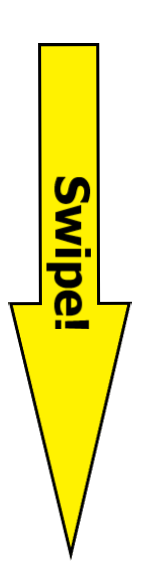
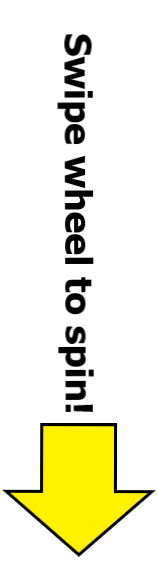
New instruction text, instructions now on popup only. New layout on menu on right.

diff --git a/the_price_is_right.py b/the_price_is_right.py
@@ -18,14 +18,18 @@ class Game(tk.Frame):
                      '90', '65', '40', '55', '75', '30', '85', '70', '25',
                      '80', '10')
     INSTRUCTIONS = ('Instructions:\n\n'
-                    'There are three players. Wins who gets closer to 100'
-                    ' without going over. Each player starts by spinning the'
-                    ' wheel once. After that, she can choose to spin it a'
-                    ' second time or not. Anyone who goes over 100 looses'
-                    ' immediately. In the end the player closer to 100 that'
-                    ' did not go over, wins!\n\n'
-                    'Statistics are presented to display who has the better'
-                    ' chance of whinning.')
+                    'The game consists of three players trying to get to as'
+                    ' close to 100 points as possible by spinning the wheel.'
+                    ' After the first spin, each player choses if she wants to'
+                    ' spin the wheel a second time. Anyone that goes above'
+                    ' 100 points looses.\n'
+                    'The wheel must make at least a full rotation for the' 
+                    ' play to be valid.\n'
+                    'Wheel speed is a function of sweeping speed and'
+                    ' distance.\n'
+                    'Whoever gets closer to 100 without going'
+                    ' above, wins!\n\n'
+                    'Swipe on wheel with touchscreen or mouse to spin wheel.')
 
     def __init__(self, parent):
         """Initialize GUI."""
@@ -51,7 +55,7 @@ class Game(tk.Frame):
         defaultbg = self.parent.cget('bg')
         self.title_lbl = tk.Label(self.parent, text='The Price is Right!',
                                   anchor=tk.CENTER, bg=defaultbg,
-                                  font=('Arial', '32', 'bold'), fg='dark grey',
+                                  font=('Tahoma', '40', 'bold', 'italic'), fg='blue',
                                   height=2, width=20)
         self.title_lbl.grid(row=0, column=0, columnspan=10, sticky='N')
 
@@ -63,7 +67,7 @@ class Game(tk.Frame):
 
         img = tk.PhotoImage(file="imgs/wheel_100.png")
         self.photo_lbl = tk.Label(self.parent, image=img, text='',
-                                  borderwidth=0)
+                                  borderwidth=1, relief='solid')
         self.photo_lbl.grid(row=1, column=1, columnspan=9, sticky='W')
         self.photo_lbl.image = img
         self.photo_lbl.bind('<Button-1>', self.mouse_bt_pressed)
@@ -72,7 +76,7 @@ class Game(tk.Frame):
         self.instr_frame = tk.Frame(self.parent, height=50, width=50)
         self.instr_frame.grid(row=1, column=11, columnspan=1, sticky='N', ipadx=0)
 
-        self.create_instr_frame_widgets()
+        self.create_right_frame_widgets()
 
     def introduction_box(self):
         """Create an introduction pop up box to display instructions and
@@ -104,38 +108,32 @@ class Game(tk.Frame):
         self.parent.attributes('-topmost', 'false')
 
         
-    def create_instr_frame_widgets(self):
-        """Create widgets inside instructions frame, to the right of the 
-        photo."""
-
-        self.instruction_lbl = tk.Label(self.instr_frame, text=self.INSTRUCTIONS, 
-                                        height=15, width=50, justify=tk.LEFT, 
-                                        font=('Arial', '10'), anchor='n', 
-                                        wraplength=370, borderwidth=1, relief='solid')
-        self.instruction_lbl.grid(row=0, column=0, columnspan=5)
+    def create_right_frame_widgets(self):
+        """Create widgets inside frame on the right to the photo."""
 
         defaultbg = self.instr_frame.cget('bg')
-        self.game_play_txt = tk.Text(self.instr_frame, width=30, height=1, 
-                                     bg=defaultbg, borderwidth=0, font=('30'), fg='green')
-        self.game_play_txt.grid(row=1, column=0, columnspan=5, padx=30, pady=30)
+        self.game_play_txt = tk.Text(self.instr_frame, width=25, height=1, 
+                                     bg=defaultbg, borderwidth=0, 
+                                     font=('Tahoma', '18', 'bold'), fg='green')
+        self.game_play_txt.grid(row=0, column=0, columnspan=4, padx=20, pady=50)
 
         score_board_input = [
-            ('1st spin', 8, 2, 1), ('2nd spin', 8, 2, 2), ('total', 8, 2, 3),
-            ('1st player', 10, 3, 0), ('2nd player', 10, 4, 0), 
-            ('3rd player', 10, 5, 0)
+            ('1st spin', 8, 1, 1), ('2nd spin', 8, 1, 2), ('total', 8, 1, 3),
+            ('1st player', 10, 2, 0), ('2nd player', 10, 3, 0), 
+            ('3rd player', 10, 4, 0)
             ]
         for text, width, row, column in score_board_input:
-            self.lbl = tk.Label(self.instr_frame, text=text, height=1, 
-                                width=width, font=('Arial', '10'), anchor='n', 
-                                borderwidth=1, relief='solid')
-            self.lbl.grid(row=row, column=column, sticky='w', pady=5)
+            self.lbl = tk.Label(self.instr_frame, text=text, height=2, 
+                                width=width, font=('Tahoma', '12'), anchor='n', 
+                                borderwidth=0)
+            self.lbl.grid(row=row, column=column, sticky='n', pady=10, padx=1)
 
         self.score_txt_list = []
         for r in range(3):
             scores_row = []
             for c in range(3):
                 txt = tk.Text(self.instr_frame, height=1, width=5)
-                txt.grid(row=r + 3, column=c + 1, sticky='w')
+                txt.grid(row=r + 2, column=c + 1, sticky='n', pady=10)
                 scores_row.append(txt)
             self.score_txt_list.append(scores_row)
 
